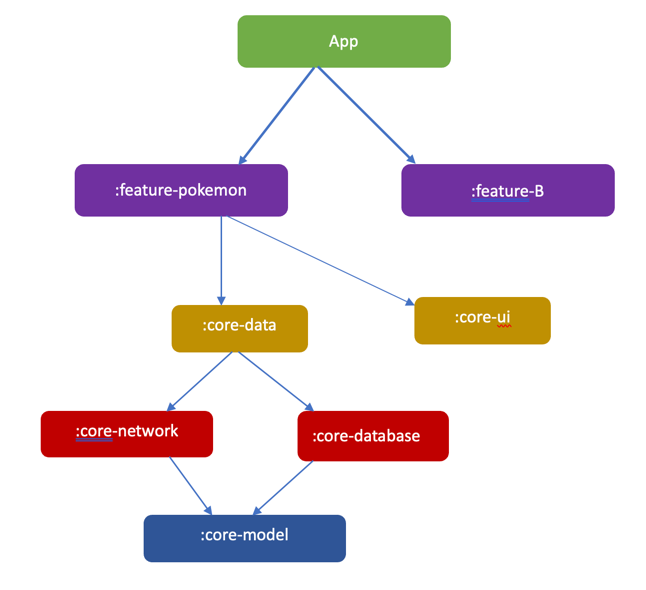
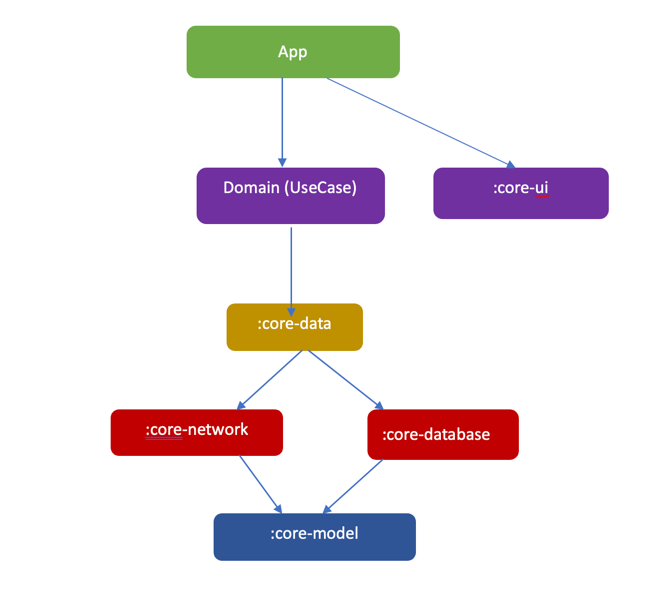
updates: updated readme file

diff --git a/README.md b/README.md
@@ -90,10 +90,10 @@ The project is modularized and divided into several modules:
 - `:core:ui` - Android library with common Jetpack Compose UI widgets (Shared UI components)
 - `:core-network` - Android library purely for networking and serializing responses
 - `:core-testing` - Android library containing testing utilities.
-- `:feature-pokemon` - Android library for the pokemon feature.
 - `:test-app` - Test-only module.
   <br/>
-- ![ModulesArchitecture.png](screenshots/ModulesArchitecture.png)
+
+![ModulesArchitecture.png](screenshots/ModulesArchitecture.png)
 
 ---
 ## Development Setup ⚙ and Pre-requisite 📝
